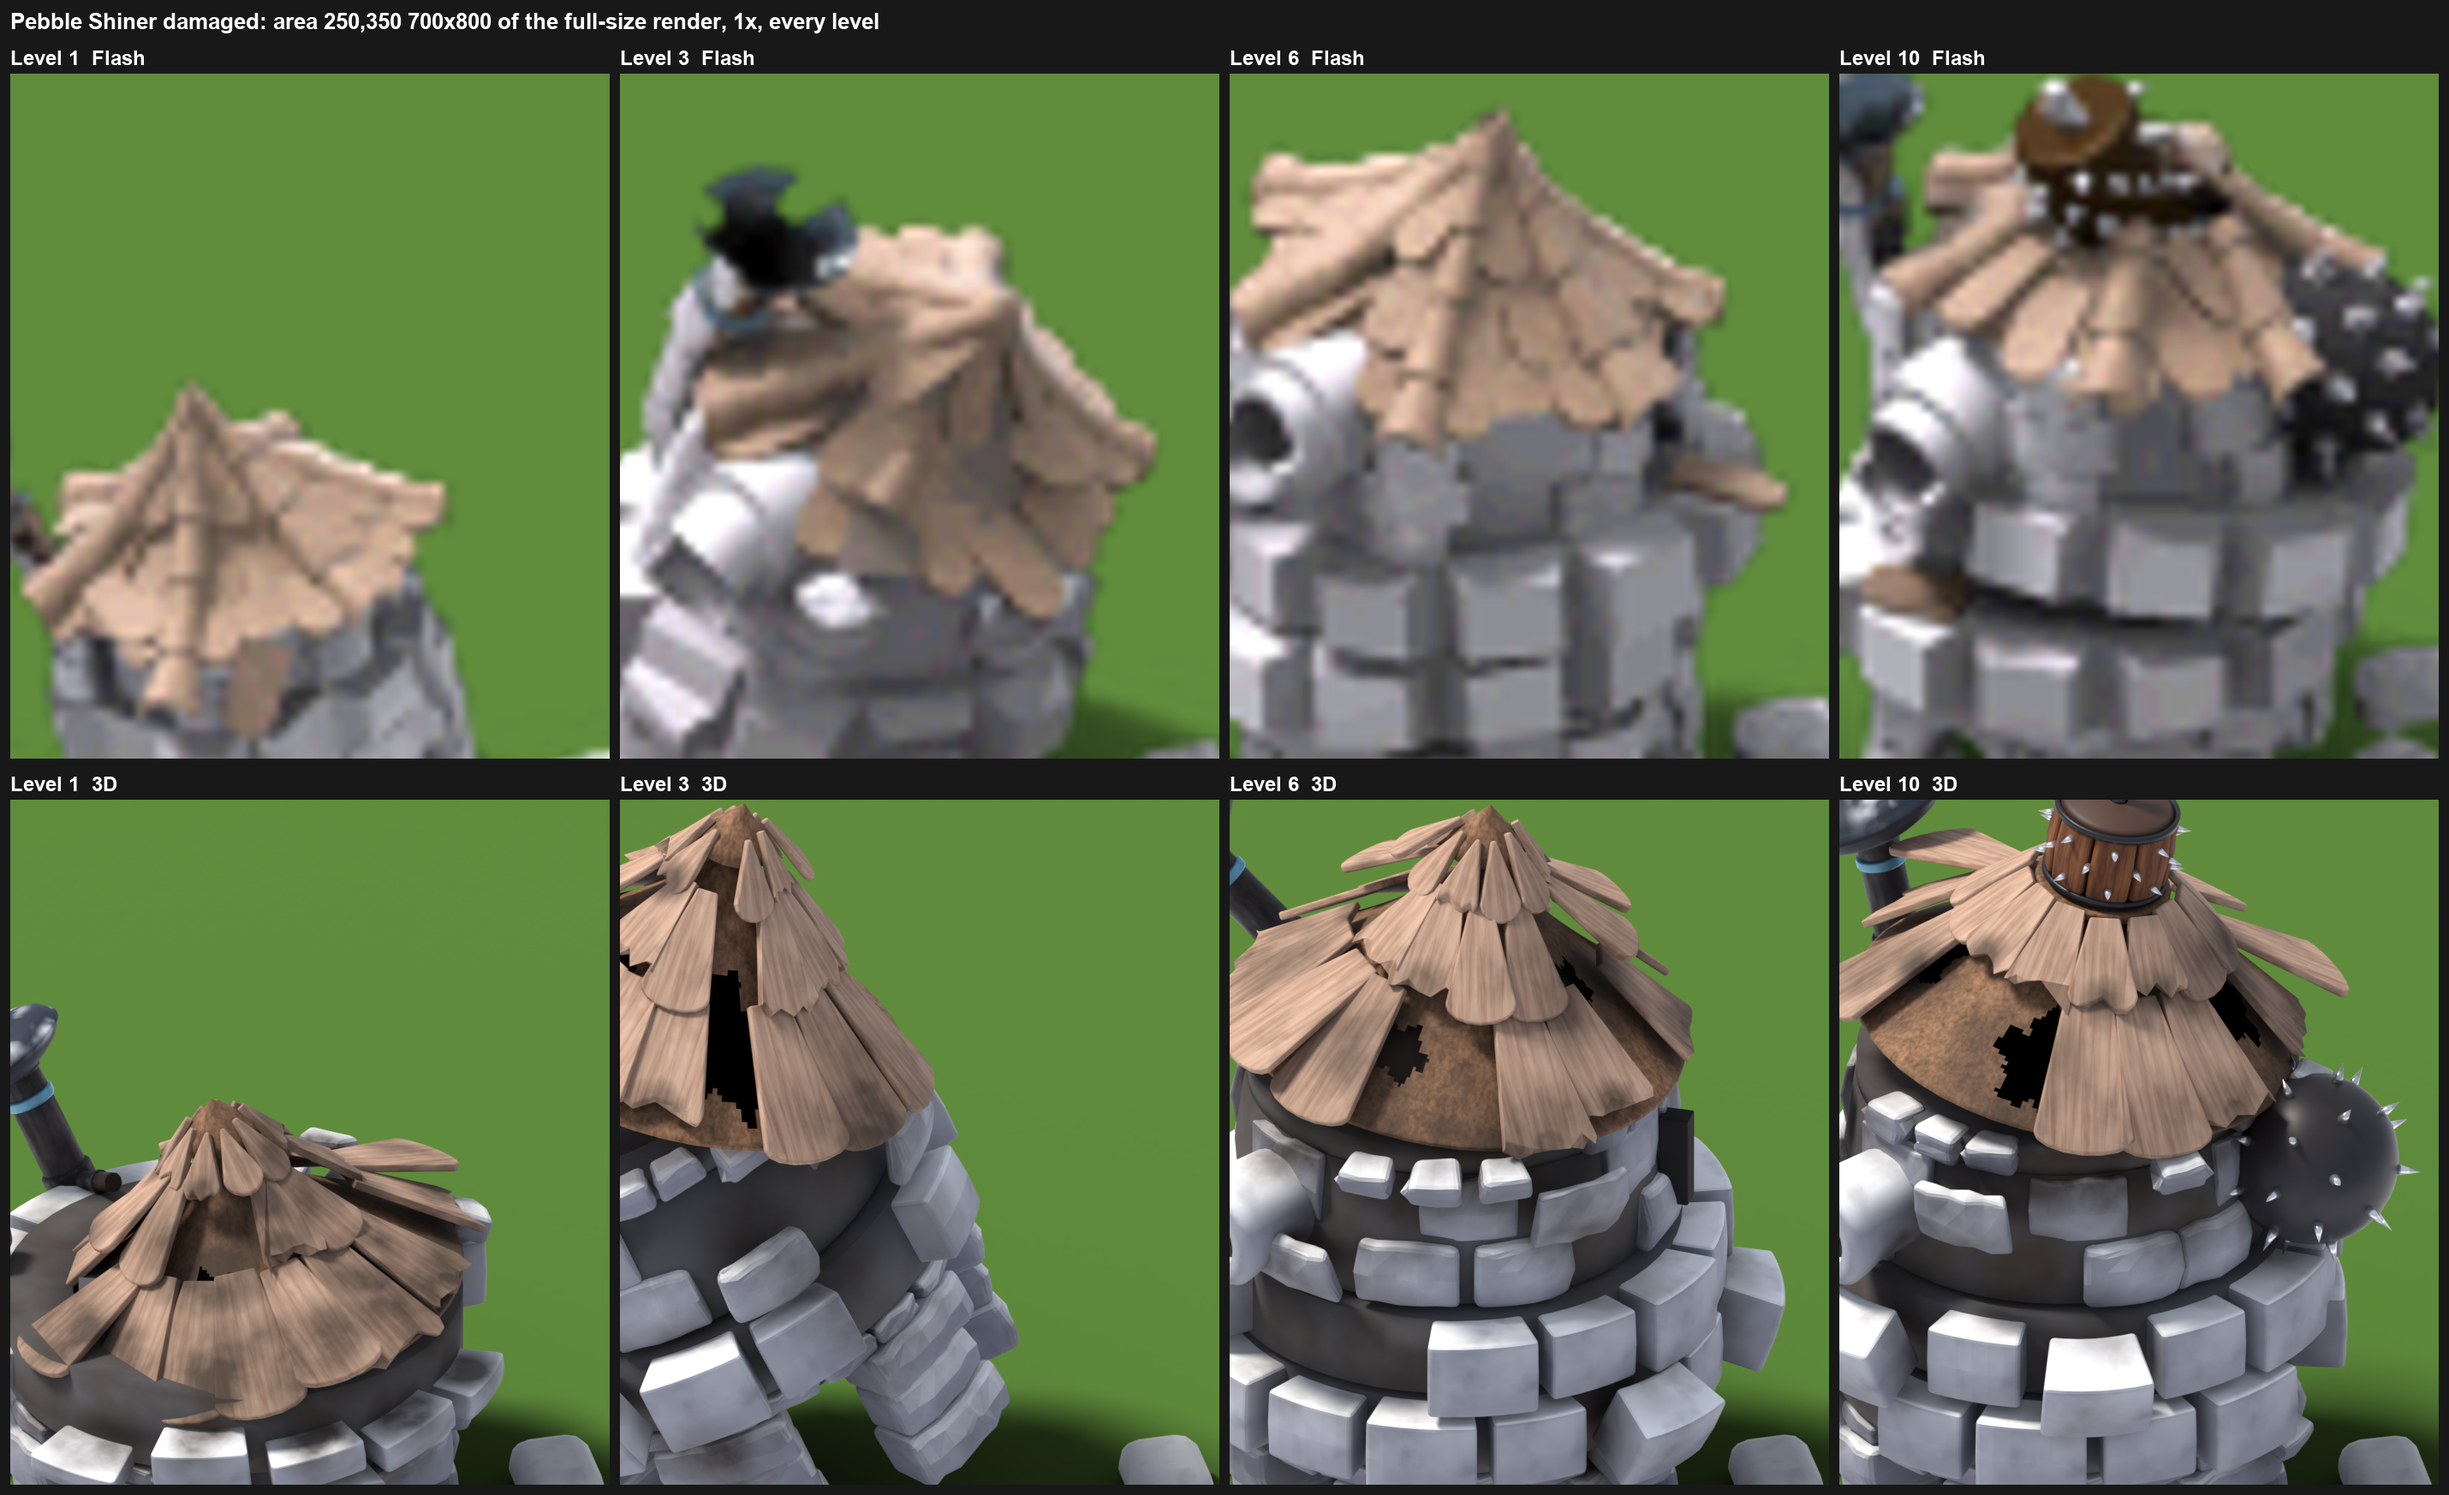
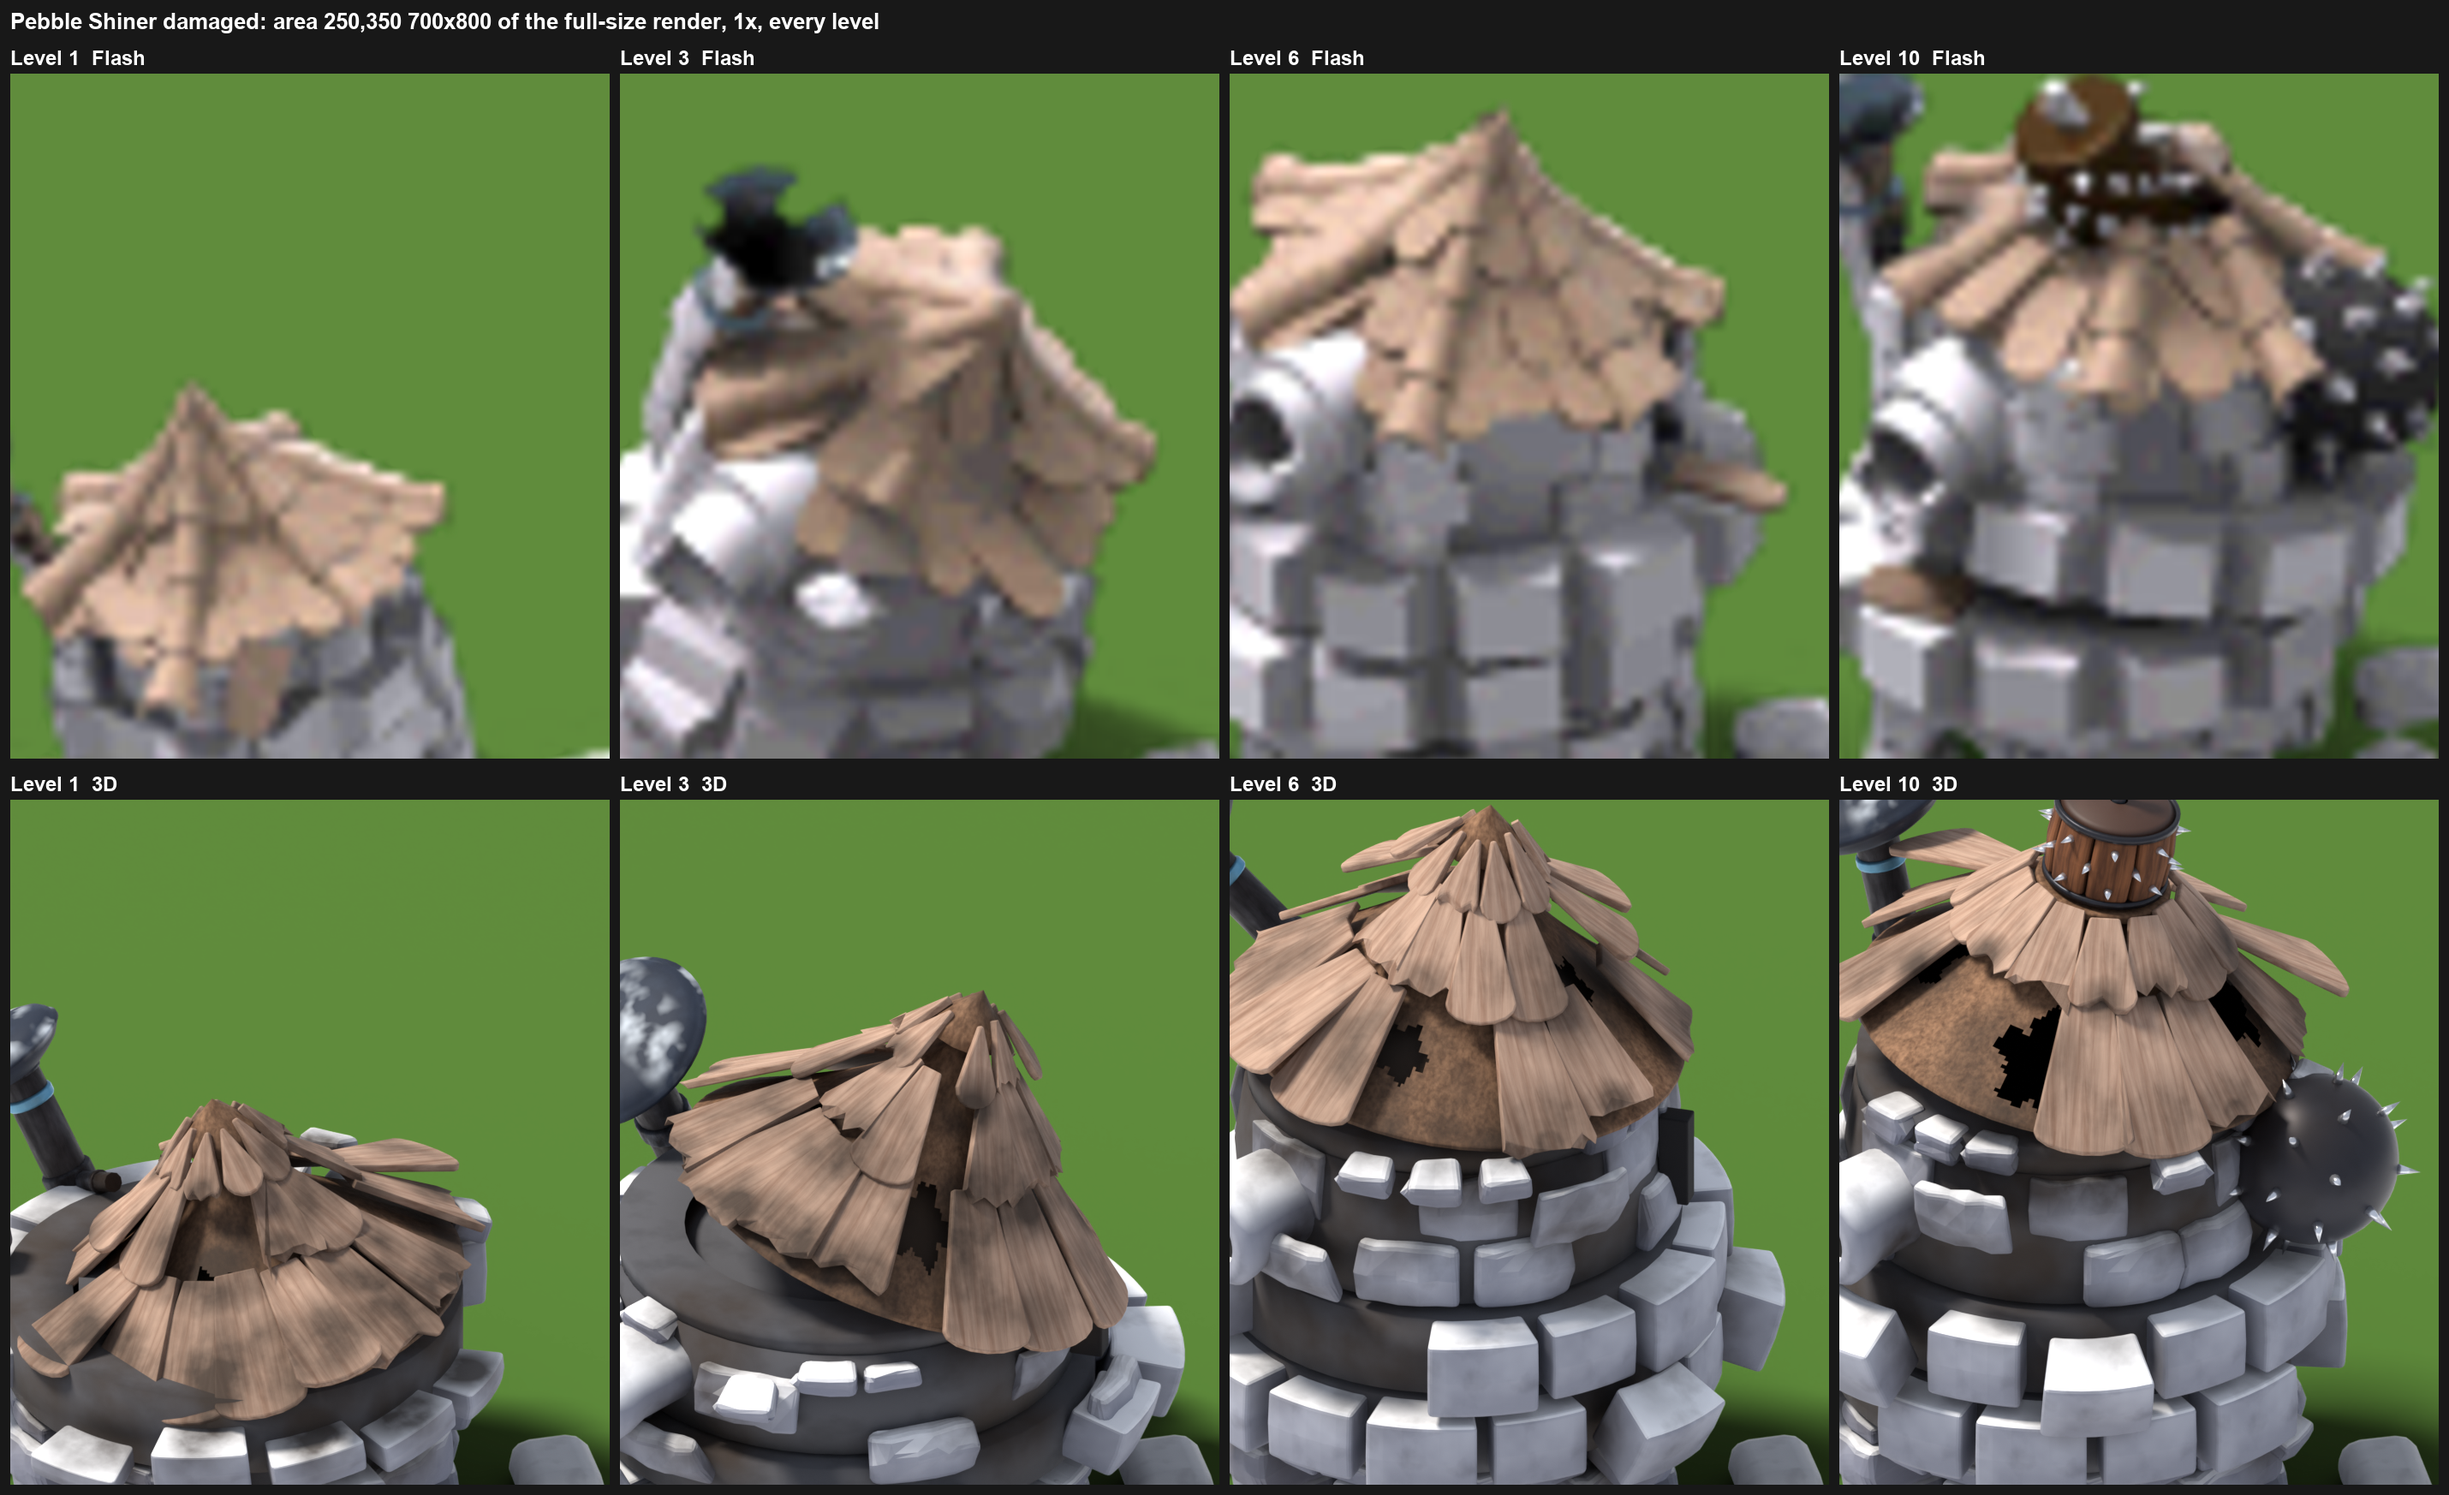
Pebble Shiner 3D level 3 damaged: shambled but on the ground (owner's fix)
The owner said the old level 3 damaged look "is defying gravity": the
whole tower leaned left over empty air. Now the tower is squashed into a
squat heap on the grass, every block sags and tips, every second top
front block has fallen to the grass, the roof is tipped right and
lowered onto the stones (drop_onto ray-casts down), and the horn is bent
over. contact_check (PB_CONTACT=1) checks every part touches the ground
or another part: 0 floating of 144. run.sh waits while 2 Blenders run.
pebble-states.png and the damaged-levels sheets are rebuilt.

Claude-Session: https://claude.ai/code/session_01YTHpn2B3GQv2nWyfBMAwkm

Changed region(s): [[0.249, 0.5258, 0.4979, 1.0]]

diff --git a/art-samples/buildings-b6/damage/pebble/pebbledmg.py b/art-samples/buildings-b6/damage/pebble/pebbledmg.py
@@ -10,6 +10,7 @@ The camera looks from bearing -45 (toward +X -Y): screen right is bearing 45, sc
 damaged or destroyed animation for this building, so the rings, drum and ball stand still.
 """
 import math
+import os
 import random
 import sys
 from pathlib import Path
@@ -246,19 +247,51 @@ def damaged():
         hinge(objs(*ROOF), Vector((0, 0, ze)), rot=(9, -7, 0), move=(0.2, 0.15, -0.5))
         hinge(objs(*PIPE), polar(S.PIPE_TH, S.PIPE_R, ze - 0.2), rot=(10, -26, 0), move=(0, 0, -0.3))
     elif L == 3:
-        # Flash: the whole tower leans hard to the left; the roof slid down off it to the right, tipped toward us so
-        # it stands up like a slab; the horn snapped; blocks pushed out of the left side
+        # (owner 31 Oct: the leaning tower "is defying gravity. Just make it more shambled but still on the ground".)
+        # A slumped, half-collapsed tower resting on the grass: the whole tower squashed down and spread at its foot,
+        # the upper courses sagging (most to the right), blocks knocked askew on the blocks below, gaps; a few
+        # blocks fallen onto the grass; the roof tipped right and sagging down onto the stones; the horn snapped.
         wreck_roof([(-45, 0.3, 1.0), (60, 0.25, 0.8), (-120, 0.45, 0.7)], gone=0.2, short=0.45, wrench=0.05,
                    seed=3)
-        wreck_wall(head, 0.3, 0.2, r)
-        wreck_wall(head, 0.0, 0.5, r, lo=-170, hi=-100)              # the left side bulges out
+        wreck_wall(head, 0.3, 0.15, r)
         wreck_wall(collar, 0.4, 0.2, r)
         wreck_wall(rings, 0.2, 0.15, r)
-        keep = objs("pebble")
-        T = tilt_mat((-1.5, -1.5, GROUND), (18, -18, 0))                   # top toward bearing -135: screen left
-        shift_all(T, keep=keep)
-        hinge(objs(*ROOF), T @ polar(45, S.ROOF_R, ze), rot=(-27, 27, 0), move=(0.55, 0.55, -0.75))
-        hinge(objs(*PIPE), T @ polar(S.PIPE_TH, S.PIPE_R, ze - 0.2), rot=(18, -10, 30))
+        roof = objs(*ROOF)
+        keep = objs("pebble") + roof
+        shift_all(Matrix.Diagonal((1.1, 1.1, 0.76, 1.0)), keep=keep)         # squashed down onto the ground
+        stack_ = alive(head + collar + rings + basec)
+        ztop = max(bbox_w(o).z for o in stack_)
+        for o in stack_:
+            c = bbox_w(o)
+            h = max(0.0, c.z / ztop)
+            b = math.radians(bearing(o))
+            side = 0.45 + 0.55 * (1 + math.cos(b - math.radians(35))) / 2       # sags most toward the right
+            out = Vector((c.x, c.y, 0)).normalized()
+            dz = -0.42 * h ** 1.4 * side
+            push = out * (0.18 * (1 - h) * r.uniform(0.4, 1.0) + 0.1 * h * side * r.uniform(0.2, 1.0))
+            ax = Vector((-out.y, out.x, 0))
+            tipd = r.uniform(3, 9) + 10 * h * side
+            mw = o.matrix_world.copy()
+            o.matrix_world = Matrix.Translation(push + Vector((0, 0, dz))) @ Matrix.Translation(c) @                 Matrix.Rotation(math.radians(tipd * r.choice((-1, 1))), 4, ax) @ Matrix.Translation(-c) @ mw
+        # a few blocks off the top fallen onto the grass at the foot (front and right)
+        top = sorted(facing(alive(head), -110, 80), key=lambda o: -bbox_w(o).z)[:6]
+        for k, o in enumerate(top[::2]):
+            mw = o.matrix_world.copy()
+            o.parent = None
+            o.matrix_world = mw
+            th = (-75, -20, 40)[k % 3]
+            p = polar(th, 3.3 + 0.3 * k, 0.0)
+            c = bbox_w(o)
+            o.matrix_world = Matrix.Translation(Vector((p.x, p.y, c.z)) - c) @ Matrix.Translation(c) @                 Matrix.Rotation(math.radians(r.uniform(-25, 25)), 4, Vector((1, 1, 0)).normalized()) @                 Matrix.Rotation(math.radians(r.uniform(0, 90)), 4, "Z") @ Matrix.Translation(-c) @ o.matrix_world
+            o.matrix_world = Matrix.Translation((0, 0, GROUND - 0.03 - lowest([o]))) @ o.matrix_world
+            burn(p + Vector((0, 0, 0.3)), 0.6)
+        # the roof: tipped toward the right and down onto what is left of the head
+        e = hinge(roof, polar(35, S.ROOF_R, ze * 0.76), rot=(-14, 14, 0), move=(0, 0, 0))
+        bpy.context.view_layer.update()
+        drop_onto(e, roof, alive(head + collar + rings + basec), sink=0.1)
+        # the horn snapped and bent over
+        hinge(objs(*PIPE), Vector(S.polar(S.PIPE_TH, S.PIPE_R * 1.1, (ze - 0.2) * 0.76)), rot=(22, -14, 25),
+              move=(0, 0, -0.15))
     elif L == 6:
         # Flash: the pipe bent far out to the left, the roof tipped a little right with ragged planks and a plank
         # sticking out, gaps all over the head and a broken top course
@@ -294,6 +327,87 @@ def damaged():
     bd = {1: [(-12, 48, 30)], 3: [(-14, 54, 20), (-6, 58, -30), (6, 56, 60)], 6: [(-16, 50, 40), (8, 58, -20)],
           10: [(-16, 50, 20), (6, 58, 70), (14, 50, -30)]}[L]
     boards([(px(x, y, Z=GROUND).x, px(x, y, Z=GROUND).y, yaw) for x, y, yaw in bd], seed=4)
+
+
+def drop_onto(e, obs, supports, sink=0.08):
+    """Lower hinge e (carrying obs) straight down until obs rest on the supports, sunk in a little."""
+    from mathutils.bvhtree import BVHTree
+    bpy.context.view_layer.update()
+    dg = bpy.context.evaluated_depsgraph_get()
+    vs, fs = [], []
+    for o in supports:
+        ev = o.evaluated_get(dg)
+        me = ev.to_mesh()
+        k = len(vs)
+        vs += [o.matrix_world @ v.co for v in me.vertices]
+        fs += [[k + i for i in p.vertices] for p in me.polygons]
+        ev.to_mesh_clear()
+    bvh = BVHTree.FromPolygons(vs, fs)
+    best = 1e9
+    for o in obs:
+        for k in kids(o):
+            if k.type not in ("MESH", "CURVE"):
+                continue
+            ev = k.evaluated_get(dg)
+            me = ev.to_mesh()
+            pts = [k.matrix_world @ v.co for v in me.vertices]
+            ev.to_mesh_clear()
+            for q in pts[::max(1, len(pts) // 300)]:
+                hit = bvh.ray_cast(q, Vector((0, 0, -1)))
+                if hit[0] is not None:
+                    best = min(best, hit[3])
+    if best < 1e9:
+        e.location.z -= best + sink
+        bpy.context.view_layer.update()
+    return best
+
+
+def contact_check(tol=0.06):
+    """Nothing floats: every part must touch the ground or touch (within tol) a part that does, through a chain of
+    contacts. Prints FLOAT <part> for each one that is not connected to the ground, then CONTACT <n floating>."""
+    from mathutils.bvhtree import BVHTree
+    bpy.context.view_layer.update()
+    dg = bpy.context.evaluated_depsgraph_get()
+    items = []
+    for o in SC.objects:
+        if o.type not in ("MESH", "CURVE") or o.hide_render or o.name == "ground":
+            continue
+        ev = o.evaluated_get(dg)
+        me = ev.to_mesh()
+        vs = [o.matrix_world @ v.co for v in me.vertices]
+        if not vs:
+            ev.to_mesh_clear()
+            continue
+        bvh = BVHTree.FromPolygons(vs, [p.vertices[:] for p in me.polygons]) if me.polygons else None
+        ev.to_mesh_clear()
+        lo = Vector((min(v.x for v in vs), min(v.y for v in vs), min(v.z for v in vs)))
+        hi = Vector((max(v.x for v in vs), max(v.y for v in vs), max(v.z for v in vs)))
+        step = max(1, len(vs) // 400)
+        items.append((o.name, vs[::step], bvh, lo, hi))
+    n = len(items)
+    nb = [[] for _ in range(n)]
+    for i in range(n):
+        a = items[i]
+        for j in range(i + 1, n):
+            b = items[j]
+            if any(a[3][k] > b[4][k] + tol or b[3][k] > a[4][k] + tol for k in range(3)):
+                continue
+            hit = (b[2] is not None and any(b[2].find_nearest(v, tol)[0] is not None for v in a[1])) or                   (a[2] is not None and any(a[2].find_nearest(v, tol)[0] is not None for v in b[1]))
+            if hit:
+                nb[i].append(j)
+                nb[j].append(i)
+    seen = [items[i][3].z <= GROUND + tol for i in range(n)]
+    todo = [i for i in range(n) if seen[i]]
+    while todo:
+        i = todo.pop()
+        for j in nb[i]:
+            if not seen[j]:
+                seen[j] = True
+                todo.append(j)
+    bad = [items[i] for i in range(n) if not seen[i]]
+    for nm, vs, _, lo, hi in bad:
+        print("FLOAT", nm, "lowest %.2f" % lo.z)
+    print("CONTACT", len(bad), "floating of", n)
 
 
 # ------------------------------------------------------------------------------------------------------------ destroyed
@@ -404,4 +518,9 @@ def destroyed():
     burn(px(2, 36, Z=g + 0.8), 2.0)
 
 
+if os.environ.get("PB_CONTACT") == "1":            # only the contact check, no render
+    G["build"]()
+    damaged() if D.STATE == "damaged" else destroyed()
+    contact_check()
+    sys.exit(0)
 D.run(damaged, destroyed)
